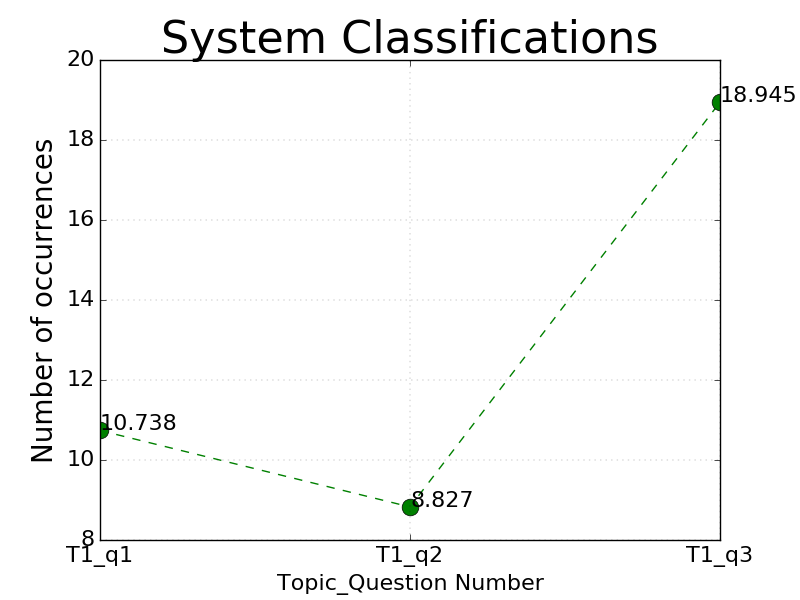
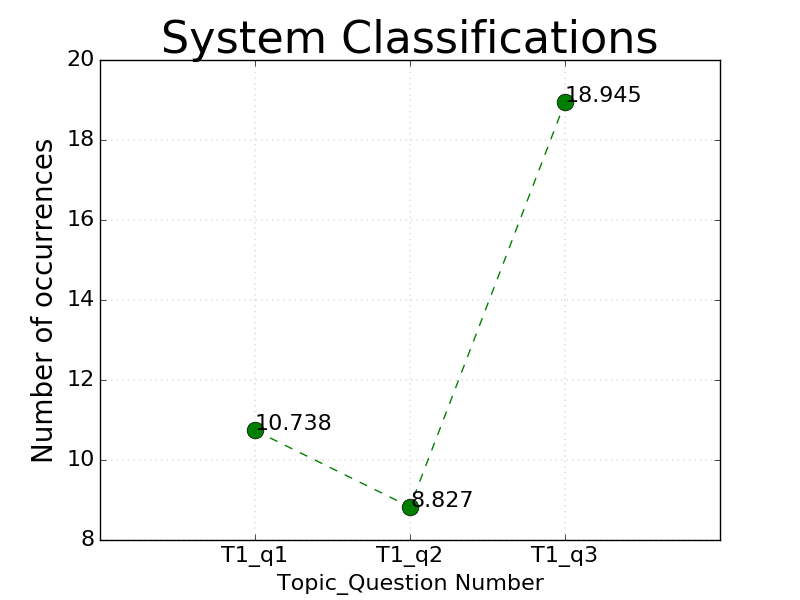
Aplha dando erro no grafico

diff --git a/Arch_2_1/main_window.py b/Arch_2_1/main_window.py
@@ -19,6 +19,7 @@ from utils import *
 import random
 import threading
 import paramiko
+import copy
 
 import matplotlib.pyplot as plt
 import matplotlib.patches as mpatches
@@ -1289,10 +1290,141 @@ class MainApp(QMainWindow, activities_Manager.Ui_MainWindow):
 
 		if self.cur_eval.validation == False:
 			# ERROR
+			
 			QMessageBox.critical(self, "Error!", "Some validation missing!", QMessageBox.Ok )
 			return False
 	
 		
+		#self.eval_graph_1()
+		
+		#self.eval_graph_2()
+
+
+	
+		# --------------------------- SYSTEM
+
+
+		profile = []
+		alpha = []
+		beta = []
+		gama = []
+		fvalues = []
+
+		max_tp = len(self.cur_eval.topics)
+		max_qt = len(self.cur_eval.topics[0].questions)
+		max_att = len(self.cur_eval.topics[0].questions[0].attempts)
+		
+		for t in range(max_tp):
+			for q in range(max_qt):
+				for a in range(max_att):
+					aux = self.cur_eval.topics[t].questions[q].attempts[a]
+
+					profile.append(aux.profile)
+					alpha.append(aux.alpha)
+					beta.append(aux.beta)
+					gama.append(aux.gama)
+					fvalues.append(aux.fvalue)
+
+		# my_xticks = tp_qt_x
+		# x = range(len(tp_qt_x))
+
+		#'''
+		
+		tp_qt_x = []
+		times = [] 
+
+		for t in range(0,len(self.cur_eval.topics)):
+			for q in range(0,len(self.cur_eval.topics[0].questions)):
+				tp_qt_x.append("T"+str(t+1)+"_q"+str(q+1))	
+				times.append(self.cur_eval.topics[t].questions[q].finished - self.cur_eval.topics[t].questions[q].started) 
+	
+		#print times
+
+		my_xticks = tp_qt_x
+		x = range(len(tp_qt_x))
+
+		plt.figure(3)
+
+		print alpha
+		print x
+
+		#plt.subplot(121)
+		plt.xticks(x, my_xticks)
+		y = alpha
+		plt.plot(x, y, 'o--', color='g',  markersize=12, label="Alpha")
+		for a,b in zip(x, y): 
+			plt.text(a, b, str(b))
+
+		# y=beta
+		# plt.plot(x, y,  's--', color='r', markersize=12, label="Beta")
+		# for a,b in zip(x, y): 
+		# 	plt.text(a-0.05, b+1.5, str(b))
+
+		# y=gama
+		# plt.plot(x, y,  'x--', color='y', markersize=12, label="Gama")
+		# for a,b in zip(x, y): 
+		# 	plt.text(a+0.18, b-0.2, str(b))
+
+		# y=fvalues
+		# plt.plot(x, y,  '*--', color='y', markersize=12, label="Fvalue")
+		# for a,b in zip(x, y): 
+		# 	plt.text(a+0.18, b-0.2, str(b))
+
+
+		plt.legend(loc='upper left', numpoints = 1,#('System right ','System Wrong ','Students right answers','Students wrong answers'),
+			shadow=True,
+			#loc=(0.01, 0.8),
+			handlelength=1.5, 
+			fontsize=12)
+
+		plt.xlim(-1,len(my_xticks))
+		#plt.ylim(-1,33)
+
+		plt.title("System Variables", fontsize=32)
+
+		plt.xlabel("Topic_Question Number", fontsize=16)
+		plt.ylabel("Value", fontsize=20)
+		plt.grid(True, linewidth=.15)
+		#plt.show()
+		graph_name = self.evaluation_db.path + str(self.cur_eval.id) + "/sys_graph"
+		plt.show()
+		plt.savefig(graph_name)
+		pixmap = QPixmap(graph_name)
+   		self.eval_evolution_graph.setPixmap(pixmap)
+   		self.eval_evolution_graph.show()
+
+
+
+		# self.content_concept.setText(text)
+		# file_name = str(self.content_path + self.content_subject_comboBox.currentText()+".csv")
+		
+		# if os.path.isfile(file_name):
+		# 	data=pd.read_csv(file_name)
+		# 	#print "trying data", data
+
+		# 	dataframe_to_table(data,self.content_questions_table)
+
+		# 	self.log("Subject loaded: " + self.content_subject_comboBox.currentText())
+			
+
+		# else:	
+		# 	self.log("WARNING TABLE <<"+file_name +">>  FILE DO NOT EXIST")
+		# 	labels = []
+		# 	for i in range(0,3):
+		# 		labels.append(str(self.content_questions_table.horizontalHeaderItem(i).text()))
+			
+		# 	data = 	pd.DataFrame(columns=labels, index=range(0))
+
+		# 	#print data
+
+		# 	data.to_csv(self.content_path + self.content_subject_comboBox.currentText()+".csv", index=False)
+		# 	data.to_csv(file_name, index=False)
+
+
+
+
+
+	def eval_graph_1(self):
 		labels = [" Right \n Answers", "Wrong \nAnswers"] 
 		sizes = [self.cur_eval.stats.right_answers, self.cur_eval.stats.total_qt - self.cur_eval.stats.right_answers]
 		
@@ -1316,7 +1448,7 @@ class MainApp(QMainWindow, activities_Manager.Ui_MainWindow):
    		self.eval_std_perf_graph.setPixmap(pixmap)
    		self.eval_std_perf_graph.show()
 
-
+	def eval_graph_2(self):
 		tp_qt_x = []
 		times = [] 
 
@@ -1360,7 +1492,7 @@ class MainApp(QMainWindow, activities_Manager.Ui_MainWindow):
 			#handlelength=1.5, 
 		#	fontsize=12)
 
-		#plt.xlim(0,7)
+		plt.xlim(-1,len(my_xticks))
 		#plt.ylim(-1,33)
 
 		plt.title("System Classifications", fontsize=32)
@@ -1371,38 +1503,10 @@ class MainApp(QMainWindow, activities_Manager.Ui_MainWindow):
 		#plt.show()
 		graph_name = self.evaluation_db.path + str(self.cur_eval.id) + "/student_times_graph"
 		plt.savefig(graph_name)
-		plt.show()
+		#plt.show()
 		pixmap = QPixmap(graph_name)
    		self.eval_time_graph.setPixmap(pixmap)
    		self.eval_time_graph.show()
-
-
-
-		# self.content_concept.setText(text)
-		# file_name = str(self.content_path + self.content_subject_comboBox.currentText()+".csv")
-		
-		# if os.path.isfile(file_name):
-		# 	data=pd.read_csv(file_name)
-		# 	#print "trying data", data
-
-		# 	dataframe_to_table(data,self.content_questions_table)
-
-		# 	self.log("Subject loaded: " + self.content_subject_comboBox.currentText())
-			
-
-		# else:	
-		# 	self.log("WARNING TABLE <<"+file_name +">>  FILE DO NOT EXIST")
-		# 	labels = []
-		# 	for i in range(0,3):
-		# 		labels.append(str(self.content_questions_table.horizontalHeaderItem(i).text()))
-			
-		# 	data = 	pd.DataFrame(columns=labels, index=range(0))
-
-		# 	#print data
-
-		# 	data.to_csv(self.content_path + self.content_subject_comboBox.currentText()+".csv", index=False)
-		# 	data.to_csv(file_name, index=False)
-
 
 
 
@@ -2274,7 +2378,7 @@ class MainApp(QMainWindow, activities_Manager.Ui_MainWindow):
 					att.system_consideration = 1
 					att.finished = self.counter_timer.elapsed()/1000.0
 					#att.ans_dist = dist
-					quest.insert_attempt(att)	
+					#quest.insert_attempt(att)	
 					self.robot_say("Parabéns. A resposta que eu esperava e a que você deu me parecem iguais!")
 					#self.robot_say("Eu notei que existe uma difereçna entre a resposta que eu esperava e a que você deu.")
 			 		#self.robot_say("Pois Eu esperava a resposta:")
@@ -2288,7 +2392,7 @@ class MainApp(QMainWindow, activities_Manager.Ui_MainWindow):
 					att.system_consideration = 0
 					att.finished = self.counter_timer.elapsed()/1000.0
 					#att.ans_dist = dist
-					quest.insert_attempt(att)
+					#quest.insert_attempt(att)
 					self.robot_say("Eu notei que existe uma diferença entre a resposta que eu esperava e a que você deu.")
 					self.robot_say("Eu esperava a resposta:")
 					self.robot_say(expected_answer)
@@ -2298,36 +2402,48 @@ class MainApp(QMainWindow, activities_Manager.Ui_MainWindow):
 					self.robot_say("Não se preocupe. Eu também estou aprendendo.")
 
 
+				# Setting Adaptive Parameters!
 
+				#core.info("Finalizing emotion thread")
+				#self.run_emotion_flag = False
+
+				self.read_values.set(0, #self.n_deviations,
+									0, #self.adapt_sys.getBadEmotions(),
+									3 - self.diag_sys.coutingWords(user_answer),
+									att.time2ans,
+									dist)
+
+				# Clear Variables
+				self.n_deviation = 0
+				self.adapt_sys.clear_emo_variables()
+
+				fvalue, aplha, beta, gama = self.adapt_sys.adp_function(j)
+				fvalue = self.adapt_sys.activation_function(fvalue)
+				self.adapt_sys.change_behavior(fvalue)
+
+				self.preview_profile = self.user_profile 
+				self.user_profile = self.adapt_sys.robot_communication_profile+1
+				
+				att.aplha=aplha
+				att.beta=beta
+				att.gama=gama
+				att.fvalue=fvalue
+				att.read_values = copy.deepcopy(self.read_values)
+				att.profile=self.preview_profile
+
+				
+				quest.insert_attempt(att)	
+				
+				
+				#END OF A ATTEMPT CYCLE
+
+
+			
 			# End of a question cycle
-			# Insert current question in topic
+			# Insert current question in topic  
 			quest.finished = self.counter_timer.elapsed()/1000.0
 			topic.insert_question(quest)
 
-			# Setting Adaptive Parameters!
-
-			#core.info("Finalizing emotion thread")
-			#self.run_emotion_flag = False
-
-			self.read_values.set(0, #self.n_deviations,
-								0, #self.adapt_sys.getBadEmotions(),
-								3 - self.diag_sys.coutingWords(user_answer),
-								att.time2ans,
-								dist)
-
-			# Clear Variables
-			self.n_deviation = 0
-			self.adapt_sys.clear_emo_variables()
-
-			fvalue = self.adapt_sys.adp_function(j)
-			fvalue = self.adapt_sys.activation_function(fvalue)
-			self.adapt_sys.change_behavior(fvalue)
-
-			self.preview_profile = self.user_profile 
-			self.user_profile = self.adapt_sys.robot_communication_profile+1
-
-			#TROCA O VALOR DO USER PROFILE!!!
-			
 
 
 		# Insert current topic in eval

diff --git a/Arch_2_1/Modules/evaluationhandler.py b/Arch_2_1/Modules/evaluationhandler.py
@@ -242,8 +242,11 @@ class Question:
 
 class Attempt:
 
-    def __init__(self, given_ans=None, time2ans=None, started = None, finished = None, system_consideration=-1,
-                    supervisor_consideration=-1, sytem_was=-1, ans_dist=None):
+    def __init__(self, given_ans=None, time2ans=None, started = None,
+                 finished = None, system_consideration=-1,
+                 supervisor_consideration=-1, sytem_was=-1, ans_dist=None,
+                 alpha=None, beta=None, gama=None, fvalue=None, profile=None,
+                 read_values=None):
         self.given_ans=given_ans
         self.time2ans=time2ans
         #self.answered_at_time = answered_at_time
@@ -254,7 +257,12 @@ class Attempt:
         self.finished = finished
         self.ans_dist=ans_dist
         #self.ans_threshold=ans_threshold
-       
+        self.alpha=alpha
+        self.beta=beta 
+        self.gama=gama 
+        self.fvalue=fvalue 
+        self.profile=profile
+        self.read_values=read_values
 
 
 

diff --git a/Arch_2_1/Modules/adaption.py b/Arch_2_1/Modules/adaption.py
@@ -143,7 +143,7 @@ class AdaptiveSystem:
 			log_file.write("\n")
 			log_file.close()
 
-		return fadp
+		return fadp, alpha, beta, gama
 	
 	
 	
